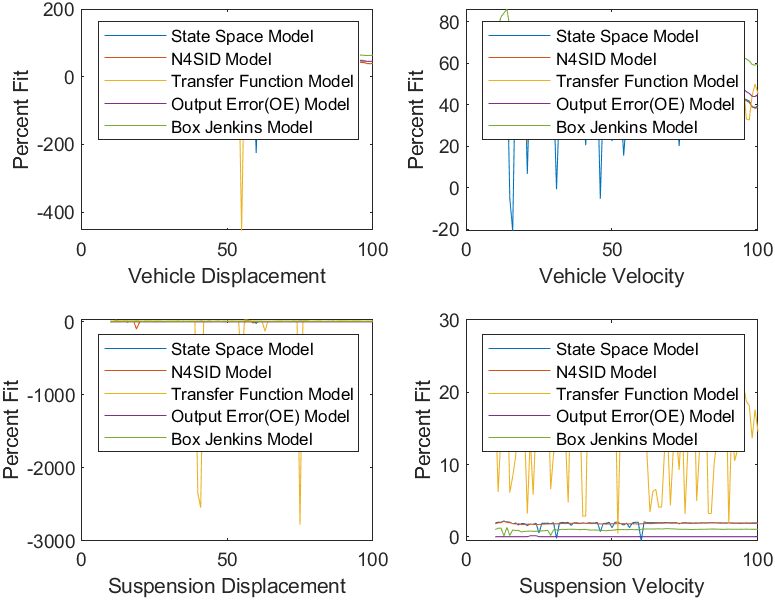
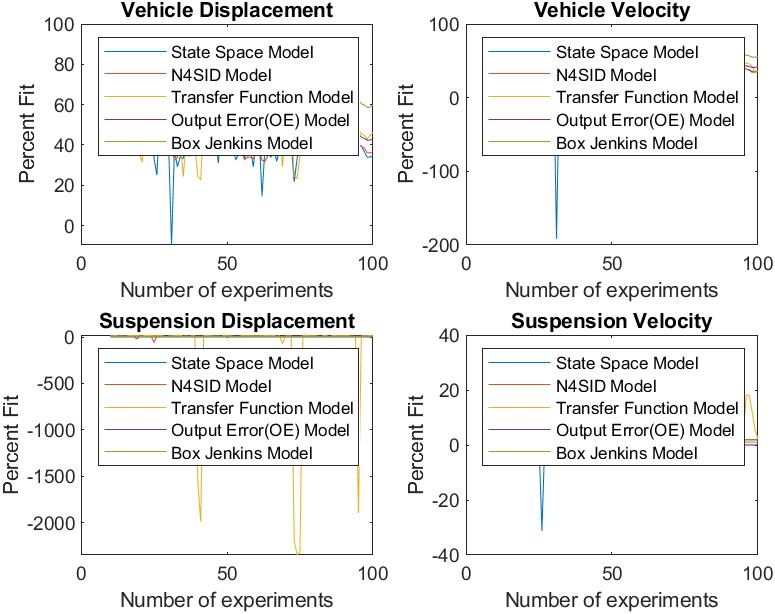
Updated noisy parameter generator model

diff --git a/src/generateQCM.m b/src/generateQCM.m
@@ -21,11 +21,11 @@ function [inputParams,responseData,stepResponse] = generateQCM(numRuns)
     for i = 1:numRuns
     
         s = rng(i);
-        m_v = (1 + randi(10)/100)*2500;
-        m_s= (1 + randi(10)/100)*320;
-        k_s = (1 + randi(10)/100)*80000;
-        k_t = (1 + randi(10)/100)*500000;
-        b_s = (1 + randi(10)/100)*350;
+        m_v = (1 + randi([-5,5])*0.01)*2500;
+        m_s= (1 + randi([-5,5])*0.01)*320;
+        k_s = (1 + randi([-5,5])*0.01)*80000;
+        k_t = (1 + randi([-5,5])*0.01)*500000;
+        b_s = (1 + randi([-5,5])*0.01)*350;
         in(i) = Simulink.SimulationInput('quarterCarModel');
         in(i) = setBlockParameter(in(i),'quarterCarModel/m1','mass',num2str(m_v));
         in(i) = setBlockParameter(in(i),'quarterCarModel/k1','spr_rate',num2str(k_s));
